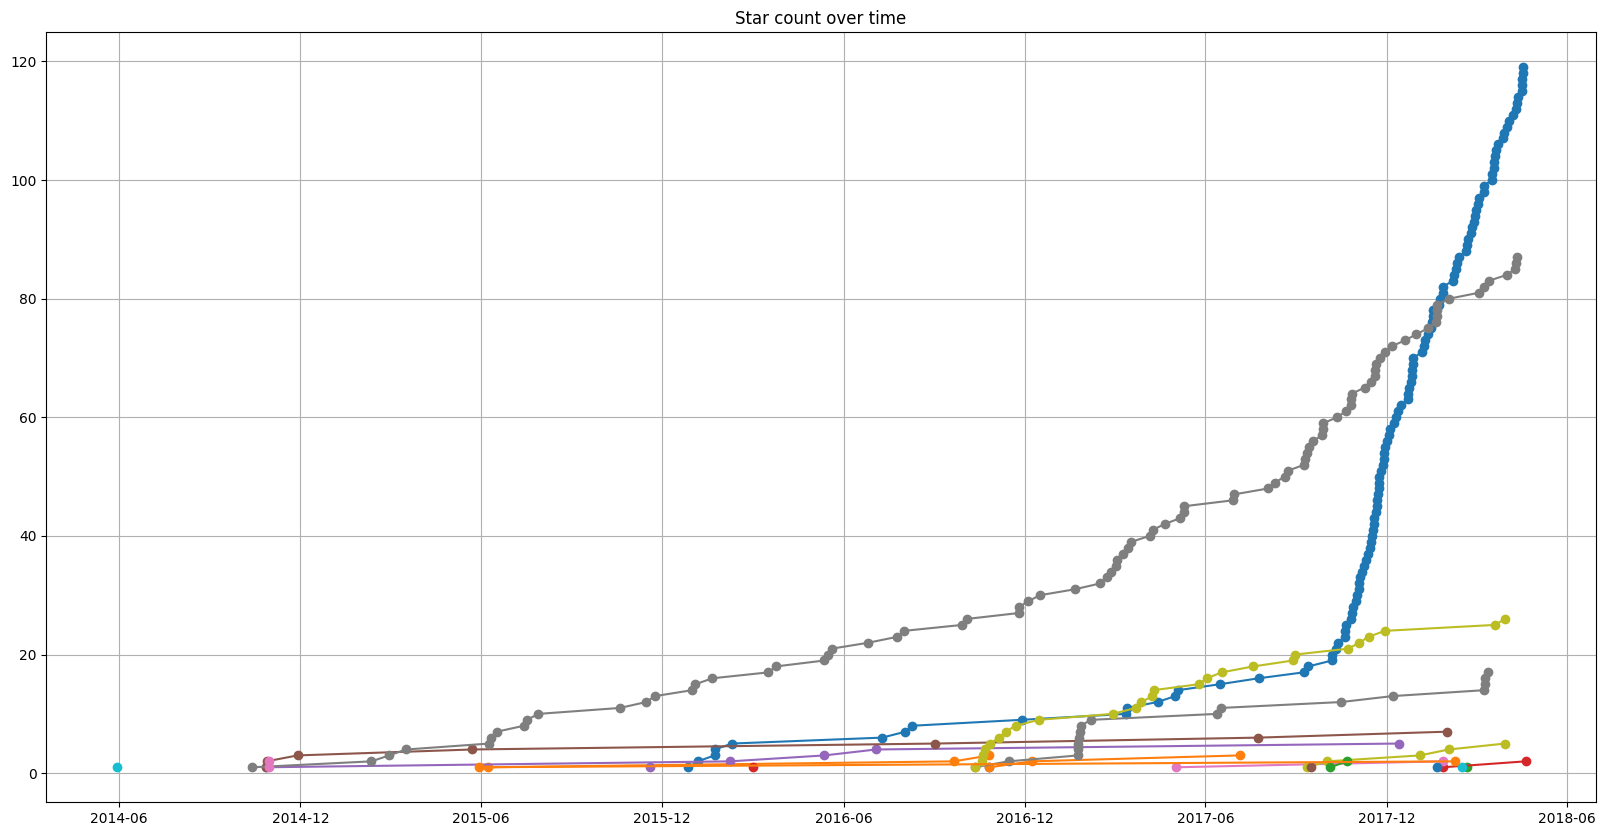
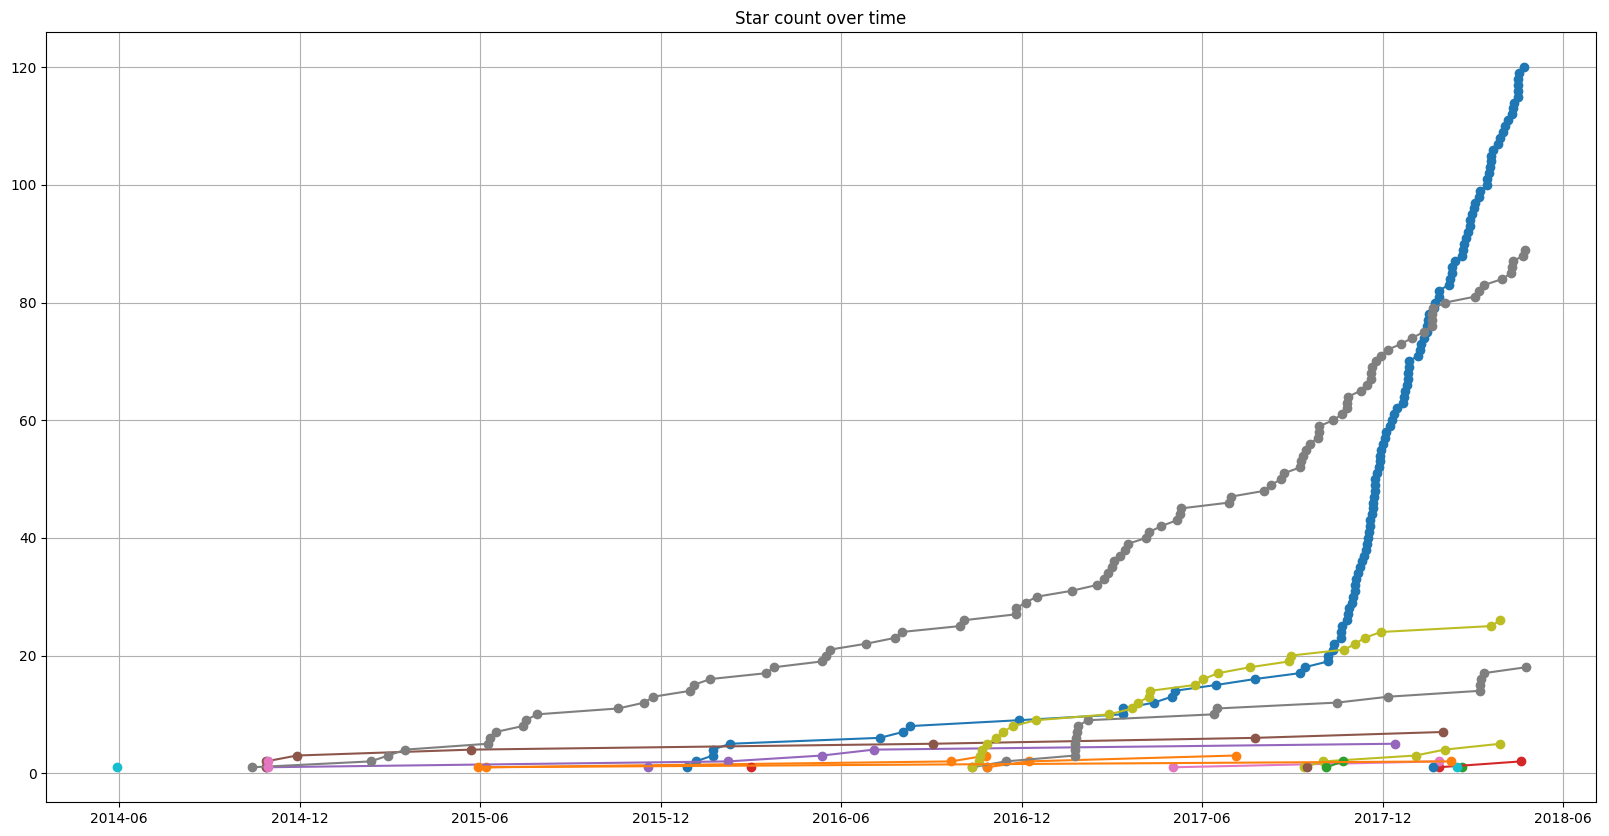
update

diff --git a/README.md b/README.md
@@ -3,7 +3,7 @@
 
 ![star plot](https://raw.github.com/FabriceSalvaire/github-map/master/star-plots/all.png)
 
-Overall stars: 290 :star:
+Overall stars: 294 :star:
 
 ## Python Packages
 
@@ -39,11 +39,11 @@ Overall stars: 290 :star:
 
 ## Python Tools for Developers
 
-* [CodeReview](https://github.com/FabriceSalvaire/CodeReview) 119 :star:</br>
+* [CodeReview](https://github.com/FabriceSalvaire/CodeReview) 120 :star:</br>
 
    CodeReview is a Git GUI tool to perform code review (Diff Viewer) written in Python3 and Qt5.
 
-   Updated on 2018-04-17
+   Updated on 2018-04-23
 
 * [github-map](https://github.com/FabriceSalvaire/github-map)
 
@@ -175,11 +175,11 @@ Overall stars: 290 :star:
 
 ## Python for Electronic
 
-* [PySpice](https://github.com/FabriceSalvaire/PySpice) 87 :star:</br>
+* [PySpice](https://github.com/FabriceSalvaire/PySpice) 89 :star:</br>
 
    Simulate electronic circuit using Python and the Ngspice / Xyce simulators
 
-   Updated on 2018-04-19
+   Updated on 2018-04-24
 
 * [PyCpuSimulator](https://github.com/FabriceSalvaire/PyCpuSimulator) 2 :star:</br>
 
@@ -265,13 +265,13 @@ Overall stars: 290 :star:
 
    An experimental PDF document manager. 
 
-   Updated on 2018-04-21
+   Updated on 2018-04-22
 
 * [biblio-data](https://github.com/FabriceSalvaire/biblio-data)
 
    None
 
-   Updated on 2018-03-10
+   Updated on 2018-04-24
 
 * [elbrea](https://github.com/FabriceSalvaire/elbrea)
 
@@ -315,11 +315,11 @@ Overall stars: 290 :star:
 
 ## Qt
 
-* [qt5-vector-graphic-shaders](https://github.com/FabriceSalvaire/qt5-vector-graphic-shaders) 17 :star:</br>
+* [qt5-vector-graphic-shaders](https://github.com/FabriceSalvaire/qt5-vector-graphic-shaders) 18 :star:</br>
 
    A Qt5 application to experiment vector graphic shaders
 
-   Updated on 2018-03-13
+   Updated on 2018-04-24
 
 ## MuPDF
 
